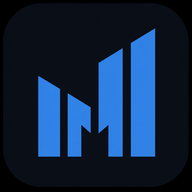
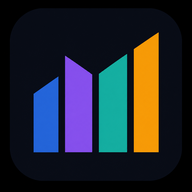
Complete redesign: training-group color system (Push/Pull/Legs/Core)
- Categorical identity colors: push=blue, pull=violet, legs=teal,
  core=rose (fixed order; amber/red stay reserved for status)
- Muscle icons recolored per group; group color flows through workout
  badges + tags, library, balance grid, volume rows, feedback modal,
  and the set-progression chart
- Programs clearly shown: Plan cards list each day as a chip with its
  group dots; Train day cards show group dots; balance card has a
  Push/Pull/Legs/Core legend
- New Higgsfield assets: 4-color ascending-bars app icon (+header mark),
  multi-color neon cinematic hero background
- sw.js cache -> v9? no: v8

diff --git a/app.js b/app.js
@@ -173,6 +173,18 @@ const MUSCLE_ICON = (m) => `icons/m/${String(m).toLowerCase()}.png`;
 const mIcon = (m, cls='m-ic') => `<img class="${cls}" src="${MUSCLE_ICON(m)}" alt="" loading="lazy">`;
 const MSHORT = { Chest:'Chest', Back:'Back', Shoulders:'Delts', Biceps:'Biceps', Triceps:'Triceps', Quads:'Quads', Hamstrings:'Hams', Glutes:'Glutes', Calves:'Calves', Abs:'Abs' };
 
+/* training-group identity: fixed categorical mapping (push/pull/legs/core) */
+const MGROUP = {
+  Chest:'push', Shoulders:'push', Triceps:'push',
+  Back:'pull', Biceps:'pull',
+  Quads:'legs', Hamstrings:'legs', Glutes:'legs', Calves:'legs',
+  Abs:'core',
+};
+const GROUP_LABEL = { push:'Push', pull:'Pull', legs:'Legs', core:'Core' };
+const gOf = (m) => MGROUP[m] || 'push';
+const gCls = (m) => 'g-' + gOf(m);
+const dayGroups = (day) => [...new Set(day.slots.map(s => gOf(s.muscle)))];
+
 /* ============================ tiny utils ============================ */
 const $ = (sel, el=document) => el.querySelector(sel);
 const $$ = (sel, el=document) => [...el.querySelectorAll(sel)];
@@ -519,6 +531,7 @@ function renderTrain() {
         <div class="day-main">
           <div class="day-title">${esc(day.name)}</div>
           <div class="day-meta">${ready ? totalSets + ' sets · ' + (done ? 'completed' + (w.date ? ' · ' + w.date : '') : isNext ? 'up next' : 'ready') : 'unlocks after last week’s session'}</div>
+          <div class="day-dots">${dayGroups(day).map(g => `<span class="group-dot g-${g}" title="${GROUP_LABEL[g]}"></span>`).join('')}</div>
         </div>
         ${ready && !done ? `<button class="btn ${isNext ? 'primary' : 'ghost'} small" data-start="${w.id}">${w.entries.some(e => e.sets.length) ? 'Resume' : 'Start'}</button>` : ''}
         ${done ? `<button class="btn subtle small" data-view-workout="${w.id}">View</button>` : ''}
@@ -533,7 +546,7 @@ function renderTrain() {
     const sets = weeklyMuscleTotal(meso, cw, m);
     const st = sets < lm.mev ? 'under' : sets > lm.mrv ? 'over' : 'optimal';
     st === 'under' ? nUnder++ : st === 'over' ? nOver++ : nOpt++;
-    return `<button class="bal-cell" data-goprog aria-label="${esc(m)} ${sets} sets"><img class="m-ic" src="${MUSCLE_ICON(m)}" alt=""><span class="bal-n">${sets}</span><span class="bal-name">${esc(MSHORT[m] || m)}</span><span class="bal-dot ${st}"></span></button>`;
+    return `<button class="bal-cell ${gCls(m)}" data-goprog aria-label="${esc(m)} ${sets} sets"><span class="m-plate"><img class="m-ic" src="${MUSCLE_ICON(m)}" alt=""></span><span class="bal-n">${sets}</span><span class="bal-name">${esc(MSHORT[m] || m)}</span><span class="bal-dot ${st}"></span></button>`;
   }).join('');
 
   el.innerHTML = `
@@ -555,6 +568,7 @@ function renderTrain() {
 
     <div class="section-title" style="margin-top:22px">This week’s volume</div>
     <div class="card">
+      <div class="row wrap" style="margin-bottom:12px">${['push','pull','legs','core'].map(g => `<span class="group-chip g-${g}"><span class="group-dot"></span>${GROUP_LABEL[g]}</span>`).join('')}</div>
       <div class="balance-grid">${balCells}</div>
       <div class="balance-summary">
         <span><b>${nOpt}</b> in range</span>
@@ -611,9 +625,9 @@ function renderWorkout() {
     return `
       <div class="card exercise-block ${enDone ? 'complete' : ''}">
         <div class="ex-head">
-          <span class="m-badge">${mIcon(en.muscle)}</span>
+          <span class="m-badge ${gCls(en.muscle)}">${mIcon(en.muscle)}</span>
           <span class="ex-name">${esc(ex ? ex.name : 'Unknown')}</span>
-          <span class="muscle-tag">${esc(en.muscle)}</span>
+          <span class="muscle-tag ${gCls(en.muscle)}">${esc(en.muscle)}</span>
           ${readonly ? '' : `<button class="icon-btn" data-swap="${ei}" title="Swap exercise" aria-label="Swap exercise">${icon('swap')}</button>`}
         </div>
         <div class="target-line"><b>${en.targetSets} set${en.targetSets > 1 ? 's' : ''}</b> · ${en.targetRIR}${deload ? '+' : ''} RIR${en.suggest ? ` · last time <b>${en.suggest.weight}${u} × ${en.suggest.reps}</b>` : ''}</div>
@@ -730,8 +744,8 @@ function openFeedbackModal(meso, w) {
   const deload = isDeload(meso, w.week);
   const fbSection = deload ? '<p class="muted">Deload week — no feedback needed. Enjoy the recovery. 🧘</p>' :
     muscles.map(m => `
-      <div class="fb-group">
-        <h3><span class="muscle-dot"></span>${esc(m)}</h3>
+      <div class="fb-group ${gCls(m)}">
+        <h3><span class="muscle-dot" style="background:var(--gc)"></span>${esc(m)}</h3>
         <div class="fb-label">Soreness coming in</div>
         <div class="seg grow" data-fb="${m}:soreness">
           <button data-v="0">Healed early</button><button data-v="1">Just in time</button><button data-v="2">Still sore</button>
@@ -815,6 +829,7 @@ function renderPlan() {
             <button class="icon-btn" data-del-meso="${m.id}" aria-label="Delete" style="color:var(--over)">✕</button>
           </div>
         </div>
+        <div class="program-days">${m.days.map(d => `<span class="program-day">${esc(d.name)}<span class="dots">${dayGroups(d).map(g => `<span class="group-dot g-${g}" title="${GROUP_LABEL[g]}"></span>`).join('')}</span></span>`).join('')}</div>
         <div class="progress-track" style="margin-top:12px"><div class="progress-fill" style="width:${Math.round(100*done/total)}%"></div></div>
       </div>`;
     }).join('')}`;
@@ -953,7 +968,7 @@ function renderWizard() {
 function renderLibrary() {
   const el = $('#view-library');
   const filter = S.libFilter || 'All';
-  const chips = ['All', ...MUSCLES].map(m => `<button class="chip ${m === filter ? 'active' : ''}" data-m="${m}">${m}</button>`).join('');
+  const chips = ['All', ...MUSCLES].map(m => `<button class="chip ${m === 'All' ? '' : gCls(m)} ${m === filter ? 'active' : ''}" data-m="${m}">${m}</button>`).join('');
   const list = S.exercises
     .filter(e => filter === 'All' || e.muscle === filter)
     .sort((a, b) => a.muscle === b.muscle ? a.name.localeCompare(b.name) : MUSCLES.indexOf(a.muscle) - MUSCLES.indexOf(b.muscle));
@@ -964,7 +979,7 @@ function renderLibrary() {
     <div class="card flush" style="margin-top:12px">
       ${list.map(e => `
         <div class="lib-item">
-          <div class="eq-icon">${mIcon(e.muscle)}</div>
+          <div class="eq-icon ${gCls(e.muscle)}">${mIcon(e.muscle)}</div>
           <div style="flex:1"><div class="name">${esc(e.name)}</div><div class="eq">${esc(e.muscle)} · ${esc(e.eq)}${e.custom ? ' · custom' : ''}</div></div>
           ${e.custom ? `<button class="btn small danger" data-del-ex="${e.id}">Remove</button>` : ''}
         </div>`).join('') || '<div style="padding:20px"><p class="muted" style="text-align:center;margin:0">Nothing here.</p></div>'}
@@ -1044,7 +1059,7 @@ function renderProgress() {
     const zL = 100 * lm.mev / scaleMax, zR = 100 * lm.mrv / scaleMax;
     return `
       <div class="volume-row">
-        <div class="vol-muscle"><span class="m-plate">${mIcon(m)}</span>${esc(m)}</div>
+        <div class="vol-muscle ${gCls(m)}"><span class="m-plate">${mIcon(m)}</span>${esc(m)}</div>
         <div class="vol-track">
           <div class="vol-zone" style="left:${zL}%;width:${zR - zL}%"></div>
           <div class="vol-zone-line" style="left:${zL}%"></div>
@@ -1055,7 +1070,7 @@ function renderProgress() {
       </div>`;
   }).join('');
 
-  const muscleChips = MUSCLES.map(m => `<button class="chip ${m === S.progressMuscle ? 'active' : ''}" data-pm="${m}">${m}</button>`).join('');
+  const muscleChips = MUSCLES.map(m => `<button class="chip ${gCls(m)} ${m === S.progressMuscle ? 'active' : ''}" data-pm="${m}">${m}</button>`).join('');
   const setsData = weeklySetsForMuscle(meso, S.progressMuscle);
   const trendData = S.progressExercise ? e1rmTrend(S.progressExercise) : [];
   const exOptions = loggedExIds.map(id => { const e = exById(id); return e ? `<option value="${id}" ${id === S.progressExercise ? 'selected' : ''}>${esc(e.name)}</option>` : ''; }).join('');
@@ -1102,6 +1117,7 @@ function renderProgress() {
   barChart($('#chart-sets'), setsData, {
     unit: 'sets',
     zone: lm ? { min: lm.mev, max: lm.mrv } : null,
+    color: `var(--g-${gOf(S.progressMuscle)})`,
   });
   barChart($('#chart-tonnage'), weeklyTonnage(meso), { unit: u });
   if (trendData.length) lineChart($('#chart-e1rm'), trendData, { unit: u });
@@ -1150,7 +1166,7 @@ function attachTooltip(root, svg, items) {
   svg.addEventListener('pointerleave', hide);
 }
 
-function barChart(root, data, { unit, zone } = {}) {
+function barChart(root, data, { unit, zone, color = 'var(--accent)' } = {}) {
   if (!root) return;
   root.classList.add('viz-root');
   const width = Math.max(root.clientWidth || 320, 280);
@@ -1180,7 +1196,7 @@ function barChart(root, data, { unit, zone } = {}) {
     const h = Math.max(y0 - y, 0);
     const r = Math.min(4, bw / 2, h);
     bars += h > 0
-      ? `<path class="bar" style="animation-delay:${i * 45}ms" d="M${x},${y0} L${x},${y + r} Q${x},${y} ${x + r},${y} L${x + bw - r},${y} Q${x + bw},${y} ${x + bw},${y + r} L${x + bw},${y0} Z" fill="var(--accent)"/>`
+      ? `<path class="bar" style="animation-delay:${i * 45}ms" d="M${x},${y0} L${x},${y + r} Q${x},${y} ${x + r},${y} L${x + bw - r},${y} Q${x + bw},${y} ${x + bw},${y + r} L${x + bw},${y0} Z" fill="${color}"/>`
       : '';
     bars += `<text class="axis-label" x="${x + bw / 2}" y="${CHART_H - 9}" text-anchor="middle">${esc(d.label)}</text>`;
     bars += `<rect data-hit="${i}" x="${PAD.l + slot * i}" y="${PAD.t}" width="${slot}" height="${CHART_H - PAD.t - PAD.b}" fill="transparent"/>`;

diff --git a/style.css b/style.css
@@ -39,6 +39,16 @@
   --over:     #d64545;
   --over-weak:#fbe6e6;
 
+  /* training-group identity (categorical, fixed order: push pull legs core) */
+  --g-push:      #2f6fe0;
+  --g-push-weak: #e7f0fd;
+  --g-pull:      #7c4fd6;
+  --g-pull-weak: #f0eafc;
+  --g-legs:      #0d9488;
+  --g-legs-weak: #d9f3f0;
+  --g-core:      #c9366f;
+  --g-core-weak: #fae8f0;
+
   /* geometry */
   --r-sm: 10px;
   --r:    14px;
@@ -73,6 +83,10 @@
     --good:     #34c46f;  --good-weak:#12271a;
     --warn:     #e0a52a;  --warn-weak:#2a2410;
     --over:     #f0605f;  --over-weak:#2c1414;
+    --g-push:   #5b93ee;  --g-push-weak: #17273f;
+    --g-pull:   #a284ef;  --g-pull-weak: #251b3e;
+    --g-legs:   #31c2b2;  --g-legs-weak: #0e2825;
+    --g-core:   #ef6f9f;  --g-core-weak: #331321;
     --shadow-1: none;
     --shadow-2: 0 8px 28px rgba(0,0,0,.5);
   }
@@ -98,6 +112,10 @@
   --good:     #34c46f;  --good-weak:#12271a;
   --warn:     #e0a52a;  --warn-weak:#2a2410;
   --over:     #f0605f;  --over-weak:#2c1414;
+  --g-push:   #5b93ee;  --g-push-weak: #17273f;
+  --g-pull:   #a284ef;  --g-pull-weak: #251b3e;
+  --g-legs:   #31c2b2;  --g-legs-weak: #0e2825;
+  --g-core:   #ef6f9f;  --g-core-weak: #331321;
   --shadow-1: none;
   --shadow-2: 0 8px 28px rgba(0,0,0,.5);
 }
@@ -144,8 +162,8 @@ h1,h2,h3 { font-weight: 700; letter-spacing: -0.01em; }
 .brand-mark {
   width: 30px; height: 30px; flex: 0 0 auto;
   display: grid; place-items: center;
-  border-radius: 9px; background: var(--accent);
-  color: var(--on-accent);
+  border-radius: 9px; background: #0e1420;
+  border: 1px solid rgba(255,255,255,.08);
 }
 .brand-mark svg { width: 19px; height: 19px; display: block; }
 .brand-text { min-width: 0; }
@@ -275,7 +293,7 @@ label.field > * { margin-top: 6px; }
   transition: background .15s, color .15s, border-color .15s;
 }
 .chip:hover { background: var(--surface-2); }
-.chip.active { background: var(--accent); border-color: var(--accent); color: var(--on-accent); }
+.chip.active { background: var(--gc, var(--accent)); border-color: var(--gc, var(--accent)); color: var(--on-accent); }
 
 /* ---------------- segmented control ---------------- */
 .seg { display: flex; gap: 6px; margin-top: 6px; }
@@ -328,13 +346,27 @@ label.field > * { margin-top: 6px; }
 .stat-tile .l { font-size: 11.5px; color: var(--ink-muted); margin-top: 3px; font-weight: 500; }
 .stat-tile .spark { margin-top: 8px; }
 
+/* ---------------- training-group identity ---------------- */
+.g-push { --gc: var(--g-push); --gc-weak: var(--g-push-weak); }
+.g-pull { --gc: var(--g-pull); --gc-weak: var(--g-pull-weak); }
+.g-legs { --gc: var(--g-legs); --gc-weak: var(--g-legs-weak); }
+.g-core { --gc: var(--g-core); --gc-weak: var(--g-core-weak); }
+
+.group-dot { width: 8px; height: 8px; border-radius: 50%; background: var(--gc, var(--accent)); display: inline-block; flex: 0 0 auto; }
+.group-chip {
+  display: inline-flex; align-items: center; gap: 5px;
+  font-size: 10.5px; font-weight: 700; letter-spacing: .04em; text-transform: uppercase;
+  color: var(--gc, var(--accent)); background: var(--gc-weak, var(--accent-weak));
+  border-radius: var(--r-pill); padding: 3px 9px; white-space: nowrap;
+}
+
 /* ---------------- muscle icons ---------------- */
 .m-ic { width: 24px; height: 24px; object-fit: contain; display: block; flex: 0 0 auto; }
 .m-ic.sm { width: 22px; height: 22px; }
 .m-ic.lg { width: 30px; height: 30px; }
 .m-badge {
   width: 40px; height: 40px; flex: 0 0 auto; border-radius: 11px;
-  background: var(--surface-3); display: grid; place-items: center;
+  background: var(--gc-weak, var(--surface-3)); display: grid; place-items: center;
 }
 .m-badge .m-ic { width: 28px; height: 28px; }
 
@@ -351,7 +383,8 @@ label.field > * { margin-top: 6px; }
 .bal-cell:active { transform: scale(.97); }
 .bal-cell .bal-n { font-size: 15px; font-weight: 750; line-height: 1; font-variant-numeric: tabular-nums; }
 .bal-cell .bal-name { font-size: 9.5px; color: var(--ink-muted); font-weight: 600; text-transform: uppercase; letter-spacing: .03em; }
-.bal-cell .m-ic { width: 30px; height: 30px; }
+.bal-cell .m-plate { width: 34px; height: 34px; border-radius: 9px; background: var(--gc-weak, var(--surface-3)); display: grid; place-items: center; }
+.bal-cell .m-ic { width: 26px; height: 26px; }
 .bal-cell .bal-dot { width: 100%; height: 3px; border-radius: 2px; margin-top: 1px; }
 .bal-dot.under { background: var(--warn); }
 .bal-dot.optimal { background: var(--accent); }
@@ -389,6 +422,8 @@ label.field > * { margin-top: 6px; }
 .day-main { flex: 1; min-width: 0; }
 .day-title { font-weight: 700; font-size: 15px; }
 .day-meta { font-size: 12.5px; color: var(--ink-muted); margin-top: 1px; }
+.day-dots { display: flex; gap: 4px; margin-top: 6px; }
+.day-dots .group-dot { width: 7px; height: 7px; }
 .day-locked { opacity: .6; }
 
 /* ---------------- workout logging ---------------- */
@@ -411,7 +446,8 @@ label.field > * { margin-top: 6px; }
 .muscle-tag {
   display: inline-flex; align-items: center; gap: 4px;
   font-size: 10.5px; font-weight: 700; text-transform: uppercase; letter-spacing: .05em;
-  color: var(--accent-ink); background: var(--accent-weak); border-radius: 6px; padding: 3px 8px 3px 6px; white-space: nowrap;
+  color: var(--gc, var(--accent-ink)); background: var(--gc-weak, var(--accent-weak));
+  border-radius: 6px; padding: 3px 8px 3px 6px; white-space: nowrap;
 }
 .muscle-tag .m-ic { width: 14px; height: 14px; }
 .target-line { font-size: 12.5px; color: var(--ink-muted); margin-bottom: 12px; }
@@ -445,6 +481,15 @@ label.field > * { margin-top: 6px; }
 .meso-card { padding: 15px; }
 .meso-title { font-weight: 700; font-size: 15.5px; }
 .meso-meta { font-size: 12.5px; color: var(--ink-muted); margin-top: 2px; }
+.program-days { display: flex; flex-wrap: wrap; gap: 6px; margin-top: 11px; }
+.program-day {
+  display: inline-flex; align-items: center; gap: 6px;
+  font-size: 11.5px; font-weight: 650; color: var(--ink-2);
+  background: var(--surface-2); border: 1px solid var(--border);
+  border-radius: 8px; padding: 4px 9px;
+}
+.program-day .dots { display: flex; gap: 3px; }
+.program-day .group-dot { width: 6px; height: 6px; }
 .badge {
   font-size: 10.5px; font-weight: 700; text-transform: uppercase; letter-spacing: .04em;
   padding: 3px 9px; border-radius: var(--r-pill); white-space: nowrap;
@@ -457,7 +502,7 @@ label.field > * { margin-top: 6px; }
 .lib-item:last-child { border-bottom: none; }
 .lib-item:hover { background: var(--surface-2); }
 .lib-item .eq-icon {
-  width: 40px; height: 40px; flex: 0 0 auto; border-radius: 11px; background: var(--surface-3);
+  width: 40px; height: 40px; flex: 0 0 auto; border-radius: 11px; background: var(--gc-weak, var(--surface-3));
   display: grid; place-items: center; color: var(--ink-muted); font-size: 11px; font-weight: 800;
 }
 .lib-item .eq-icon .m-ic { width: 28px; height: 28px; }
@@ -469,7 +514,7 @@ label.field > * { margin-top: 6px; }
 .volume-list { display: flex; flex-direction: column; gap: 13px; }
 .volume-row { display: grid; grid-template-columns: 116px 1fr auto; gap: 10px; align-items: center; }
 .vol-muscle { display: flex; align-items: center; gap: 8px; font-size: 12.5px; font-weight: 650; color: var(--ink-2); }
-.vol-muscle .m-plate { width: 30px; height: 30px; flex: 0 0 auto; border-radius: 8px; background: var(--surface-2); display: grid; place-items: center; }
+.vol-muscle .m-plate { width: 30px; height: 30px; flex: 0 0 auto; border-radius: 8px; background: var(--gc-weak, var(--surface-2)); display: grid; place-items: center; }
 .vol-muscle .m-plate .m-ic { width: 23px; height: 23px; }
 .vol-track {
   position: relative; height: 20px; border-radius: 6px; background: var(--surface-2);

diff --git a/index.html b/index.html
@@ -18,7 +18,7 @@
 <header class="app-header">
   <div class="brand">
     <span class="brand-mark" aria-hidden="true">
-      <svg viewBox="0 0 24 24" fill="currentColor"><rect x="3" y="13" width="3.3" height="8" rx="1"/><rect x="8" y="9" width="3.3" height="12" rx="1"/><rect x="12.9" y="6" width="3.3" height="15" rx="1"/><rect x="17.7" y="3" width="3.3" height="18" rx="1"/></svg>
+      <svg viewBox="0 0 24 24"><rect x="3" y="13" width="3.3" height="8" rx="1" fill="#3b82f6"/><rect x="8" y="9" width="3.3" height="12" rx="1" fill="#8b63e9"/><rect x="12.9" y="6" width="3.3" height="15" rx="1" fill="#12a99b"/><rect x="17.7" y="3" width="3.3" height="18" rx="1" fill="#f59e0b"/></svg>
     </span>
     <div class="brand-text">
       <h1 id="header-title">MesoForge</h1>

diff --git a/sw.js b/sw.js
@@ -1,5 +1,5 @@
 /* MesoForge service worker — cache-first app shell for offline use */
-const CACHE = 'mesoforge-v7';
+const CACHE = 'mesoforge-v8';
 const ASSETS = [
   './',
   './index.html',
